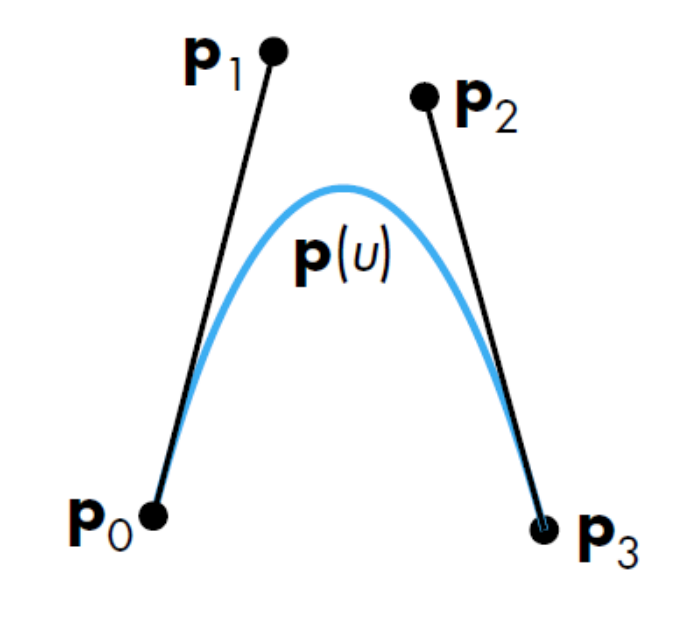
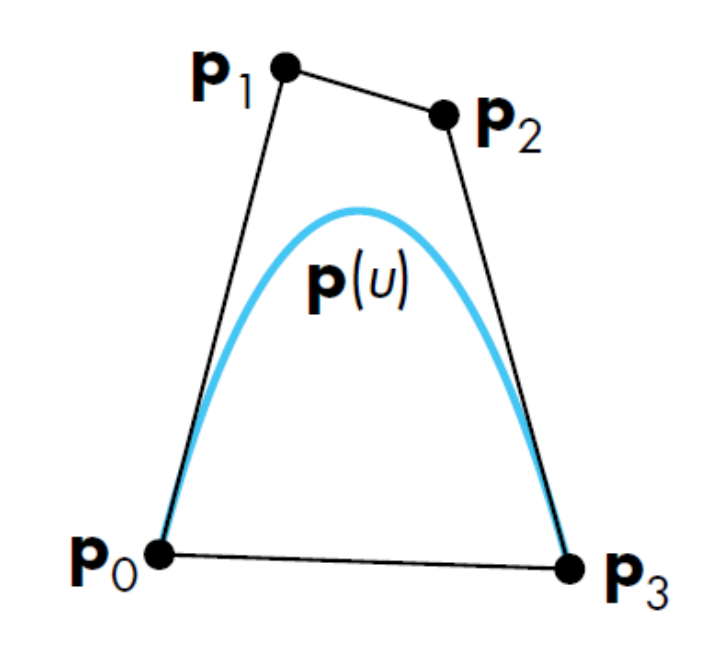
add computer graphics

Changed region(s): [[0.0917, 0.1232, 0.9476, 0.9546], [0.2445, 0.0616, 0.5502, 0.2156]]

diff --git a/content/computer-graphics.md b/content/computer-graphics.md
@@ -48,7 +48,7 @@ geometry:
   - [ ] **Z-buffer** Hidden surface removal: fragment discarded if occlused by pixel already in frame buffer
   - [ ] **Blended**: blending with pixels already in frame buffer
 
-
+$\require{color}$
 
 # Chapter 1 -- Intro
 
@@ -188,7 +188,7 @@ The success of **IRIS GL**, the graphics API for the world's first graphics hard
 
 **Primitive Generation**: if primitive is visible, then try output. *Appearance depends on the primitive's **state***.
 
-**State Changing**: e.g. Color changing is a state changing function. Changes the "pen color" state to $\textcolor{red}{\textsf{RED}}$ for instance, then it assigns those primitives affected to state $\textcolor{red}{\textsf{RED}}$.
+**State Changing**: e.g. Color changing is a state changing function. Changes the "pen color" state to $\textcolor{red}{\textsf{RED}}$ for instance, then it assigns those primitives affected to state $\textcolor{red}{\textsf{RED}}$.
 
 ### Function format
 
@@ -905,7 +905,6 @@ $$
 ### Shadow Rays
 
 $$
-\require{color}
 I_\text{local} = I_ak_a + \textcolor{red}{k_\text{shadow}}I_\text{source}[\dots],\quad  \textcolor{red}{k_\text{shadow} \in \{0,1\}}
 $$
 
@@ -1131,6 +1130,7 @@ p(u) = \left[ \begin{matrix} 1 & u & u^2 & u^3 \end{matrix} \right]
 \left[ \begin{matrix} c_0 \\ c_1 \\ c_2 \\ c_3 \end{matrix} \right] = u^{T}c
 $$
 
+## Curve implementations
 
 ### Cubic interpolating curves
 
@@ -1142,7 +1142,7 @@ In practice we specify curve segments **geometrically** with control points.
 | **Curve segment**<br /><img src="/notes-blog/assets/img/cg/cubicinter.png" width="300px"> | $p(0) = p_0$<br />$p(1/3) = p_1$<br />$p(2/3) = p_2$<br />$p(1) = p_3$. |
 | **Surface patch**<br /><img src="/notes-blog/assets/img/cg/cubicinterpatch.png" width="300px"> | Interpolate the points along <br />each red curve respectively. |
 
-**Blending functions** interpolate in a way that satisfies exactly its variations along the edges of a square domain.
+**Blending functions** interpolate in a way that satisfies exactly its variations along the edges of a square domain, graphical representation below.
 
 ![Cubic interpolating graph](/notes-blog/assets/img/cg/cubicintergraph.png)
 
@@ -1182,6 +1182,15 @@ $$
 | **Surface patch**<br /><img src="/notes-blog/assets/img/cg/cubicbezierpatch.png" width="300px"> | Interpolate the points along <br />each red curve respectively. |
 
 
+
+Blending functions of the cubic Bezier graph are also called Berstein polynomials (of degree 3). For $0 \leq u \leq 1$, they satisfy:
+
+- $0 \leq b_i(u) \leq 1$
+- $\sum_{i=1}^3 b_i(u) = 1$
+
+![Cubic Bezier graph](/notes-blog/assets/img/cg/bernstein.png)
+
+
 $$
 \begin{aligned}
 M_B &= \left[
@@ -1191,11 +1200,12 @@ M_B &= \left[
 3 & 6 & 3 & 0 \\
 -1 & 3 & -3 & 1  
 \end{matrix} 
-\right] \quad \textbf{(from De Casteljau's)} \\
+\right] \\
 \Rightarrow c &= M_B p_{0,1,2,3} \\
 \Rightarrow p(u) &= u^{T}c = \textcolor{red}{u^T M_B}p_{0,1,2,3} \\
 &= \textcolor{red}{
-\left[ \begin{matrix} b_0(u) & b_1(u) & b_2(u) & b_3(u) \end{matrix} \right]}
-\left[ \begin{matrix} p_0 \\ p_1 \\ p_2 \\ p_3 \end{matrix} \right] \quad \\
+\left[ \begin{matrix} (1-u)^3 \\ 3u(1-u)^2 \\ 3u^2(1-u) \\ 1 \end{matrix} \right] } \cdot
+\left[ \begin{matrix} p_0 \\ p_1 \\ p_2 \\ p_3 \end{matrix} \right] \quad \textbf{(Bernstein polynomials)}\\
 \end{aligned}
 $$
+	
